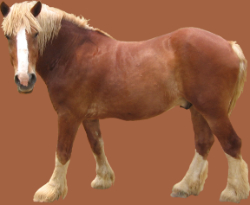
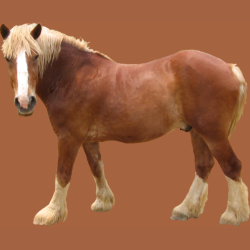
reformatted horses + added new submissions

diff --git a/src/assets/css/main.min.css b/src/assets/css/main.min.css
@@ -1,1 +1,1 @@
-.form{display:flex;flex-direction:column;gap:1rem;max-width:600px;width:100%}.form input,.form textarea{background-color:#fff3d4;color:#32270a;border:solid 3px #dec481;resize:vertical;padding:1rem;box-shadow:-5px 5px 5px rgba(0,0,0,.2)}.form input:focus,.form textarea:focus{border:solid 5px #000;outline:none}.form button{width:100%;padding:.5rem 0;background-color:#b6714e;border:solid 3px #dec481}.hidden{display:none}span{position:absolute;padding:2rem;top:0;left:0}#message .container{display:flex;flex-direction:column;align-items:center;justify-content:center}#message .container h1{margin:0}#message .container button{background:none;padding:.5rem 2rem;border:solid 3px #dec481;cursor:pointer}#message .container button:hover{border:solid 5px #dec481}
+.form{display:flex;flex-direction:column;gap:1rem;max-width:600px;width:100%}.form input,.form textarea{background-color:#fff3d4;color:#32270a;border:solid 3px #dec481;resize:vertical;padding:1rem;box-shadow:-5px 5px 5px rgba(0,0,0,.2)}.form input button,.form textarea button{width:100%;padding:.5rem 0;background-color:#b6714e;border:solid 3px #dec481}.form input:focus,.form textarea:focus{border:solid 5px #000;outline:none}.hidden{display:none}span{position:absolute;padding:2rem;top:0;left:0}#message .container{display:flex;flex-direction:column;align-items:center;justify-content:center}#message .container h1{margin:0}#message .container button{background:none;padding:.5rem 2rem;border:solid 3px #dec481;cursor:pointer}#message .container button:hover{border:solid 5px #dec481}

diff --git a/src/assets/css/critical.min.css b/src/assets/css/critical.min.css
@@ -1,1 +1,1 @@
-body{background-color:#a36242;margin:auto;height:100vh}body *{color:#fff;box-sizing:border-box}body,body main,body button{display:flex;flex-direction:column;justify-content:center;align-items:center}body main{width:100%;padding:0 1rem}.home #imgDiv,.home img{width:100%;max-width:700px}.home button{background:none;border:solid 5px #dec481;cursor:pointer;padding:4rem 1rem;width:100%;max-width:700px;height:100%}.home button .clickme{display:none}.home button:hover .clickme{display:block;font-size:1rem;position:absolute}@media screen and (min-width: 30.4em){.home button:hover .clickme{font-size:2rem}}#message{text-align:center;max-width:400px}footer{text-align:center;padding:1rem}footer a{color:#ffa97e}#noscript{display:none}
+footer{text-align:center;padding:1rem}svg{max-width:35px}body{background-color:#a36242;margin:auto;height:100vh}body *{color:#fff;box-sizing:border-box}body,body main,body button{display:flex;flex-direction:column;justify-content:center;align-items:center}body main{width:100%;padding:0 1rem}.home #imgDiv,.home img{width:100%;max-width:700px}.home button{background:none;border:none;cursor:pointer;padding:4rem 1rem;width:100%;max-width:700px;height:100%}.home button .clickme{display:none}.home button:hover .clickme{display:block;font-size:1rem;position:absolute}@media screen and (min-width: 30.4em){.home button button:hover .clickme{font-size:2rem}}#message{text-align:center;max-width:400px}footer{text-align:center;padding:1rem}footer a{color:#ffa97e}#noscript{display:none}

diff --git a/src/assets/js/display-image.js b/src/assets/js/display-image.js
@@ -8,7 +8,12 @@ const imageArray = [
 	"/assets/img/horse7",
 	"/assets/img/horse8",
 	"/assets/img/horse9",
-	"/assets/img/horse10"
+	"/assets/img/horse10",
+	"/assets/img/horse11",
+	"/assets/img/horse12",
+	"/assets/img/horse13",
+	"/assets/img/horse14",
+	"/assets/img/horse15"
 ];
 
 const image = document.querySelector("img");
